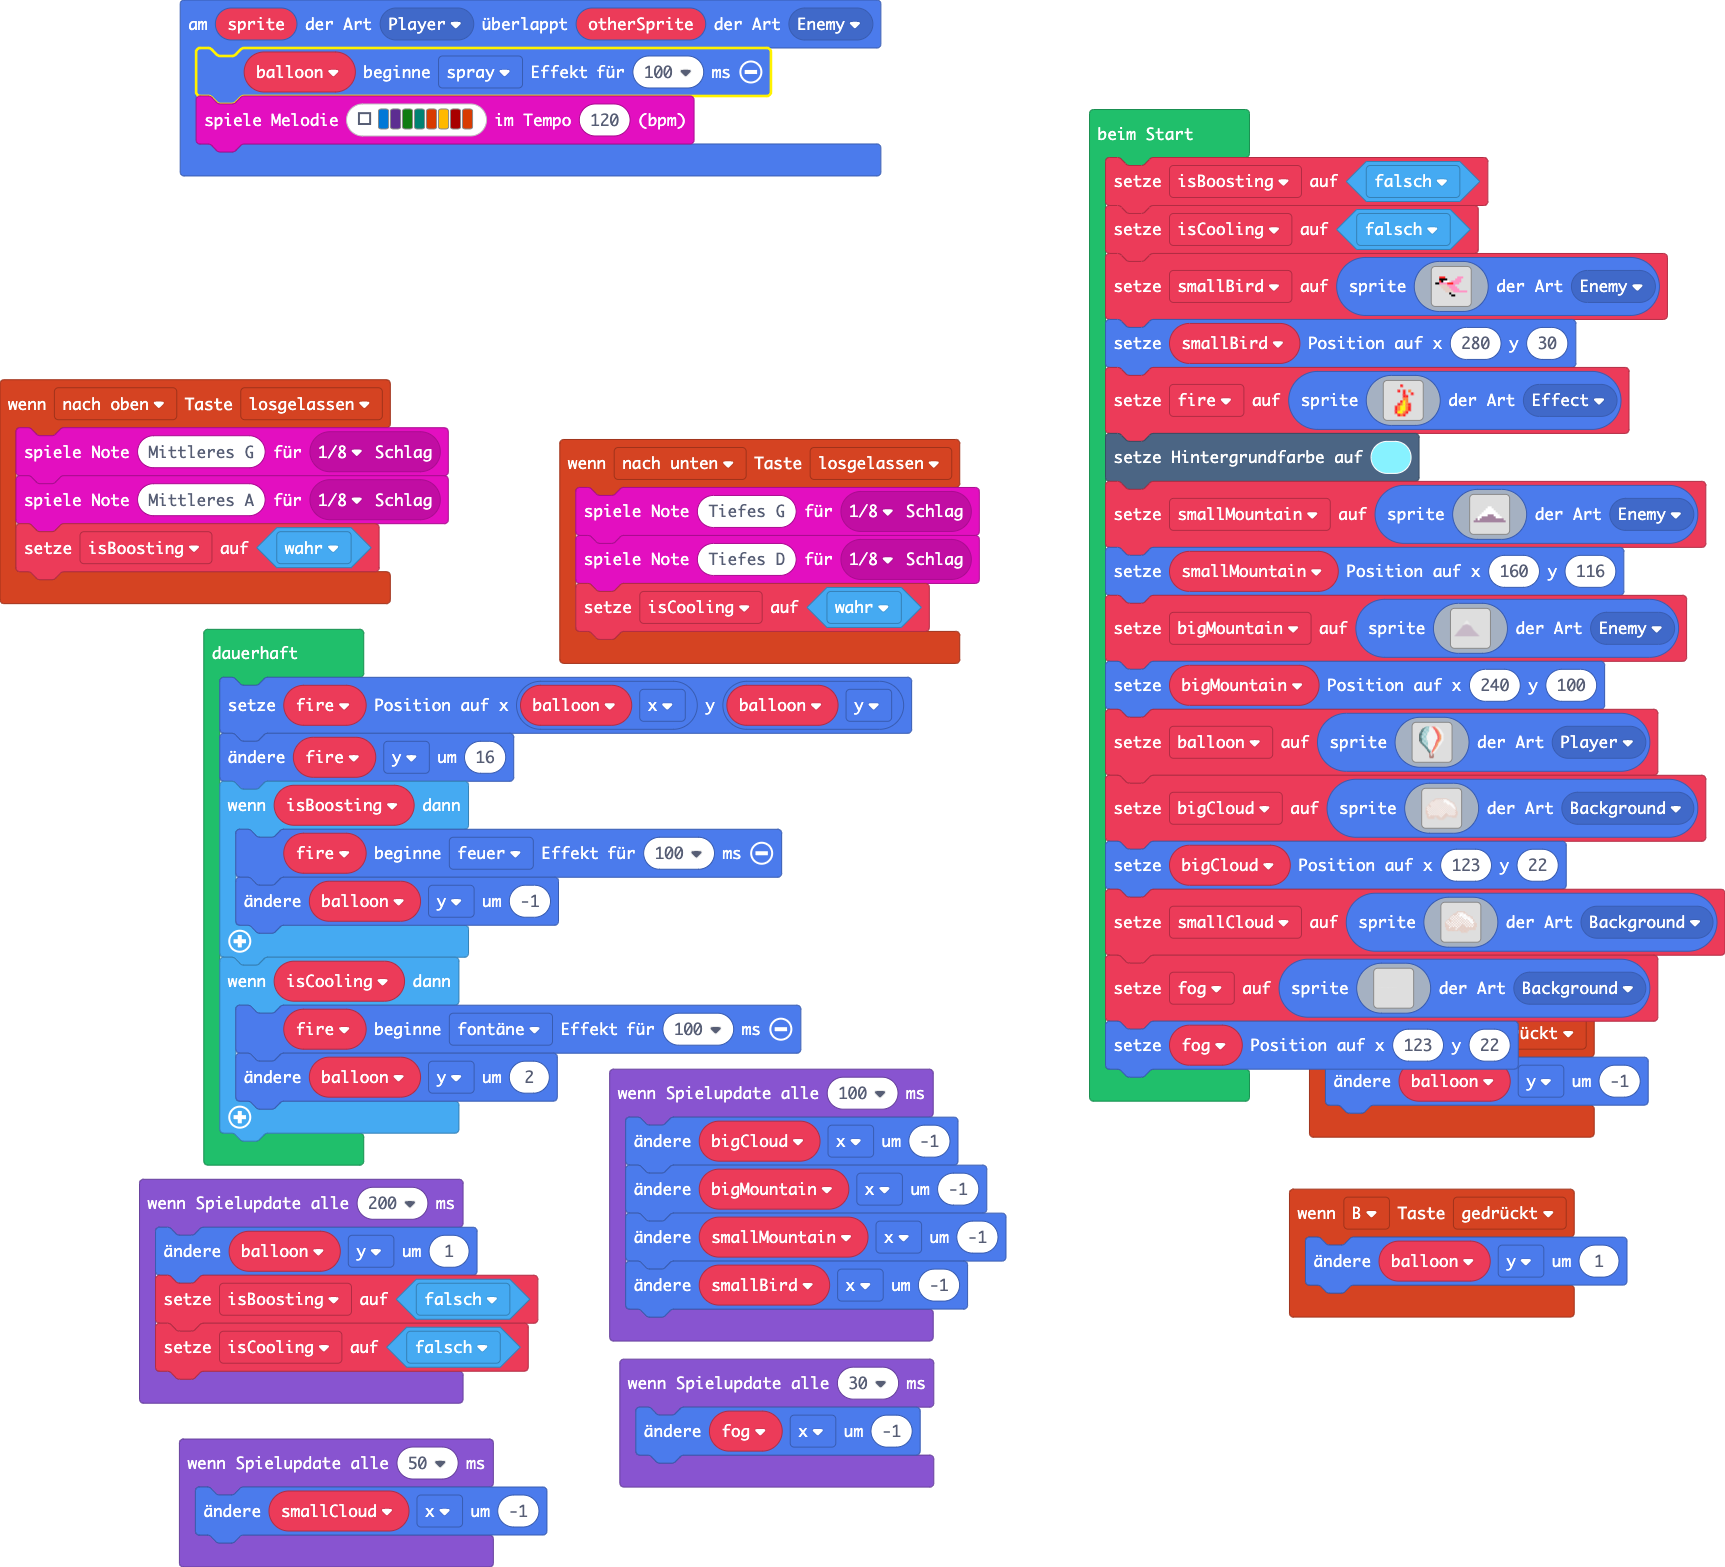
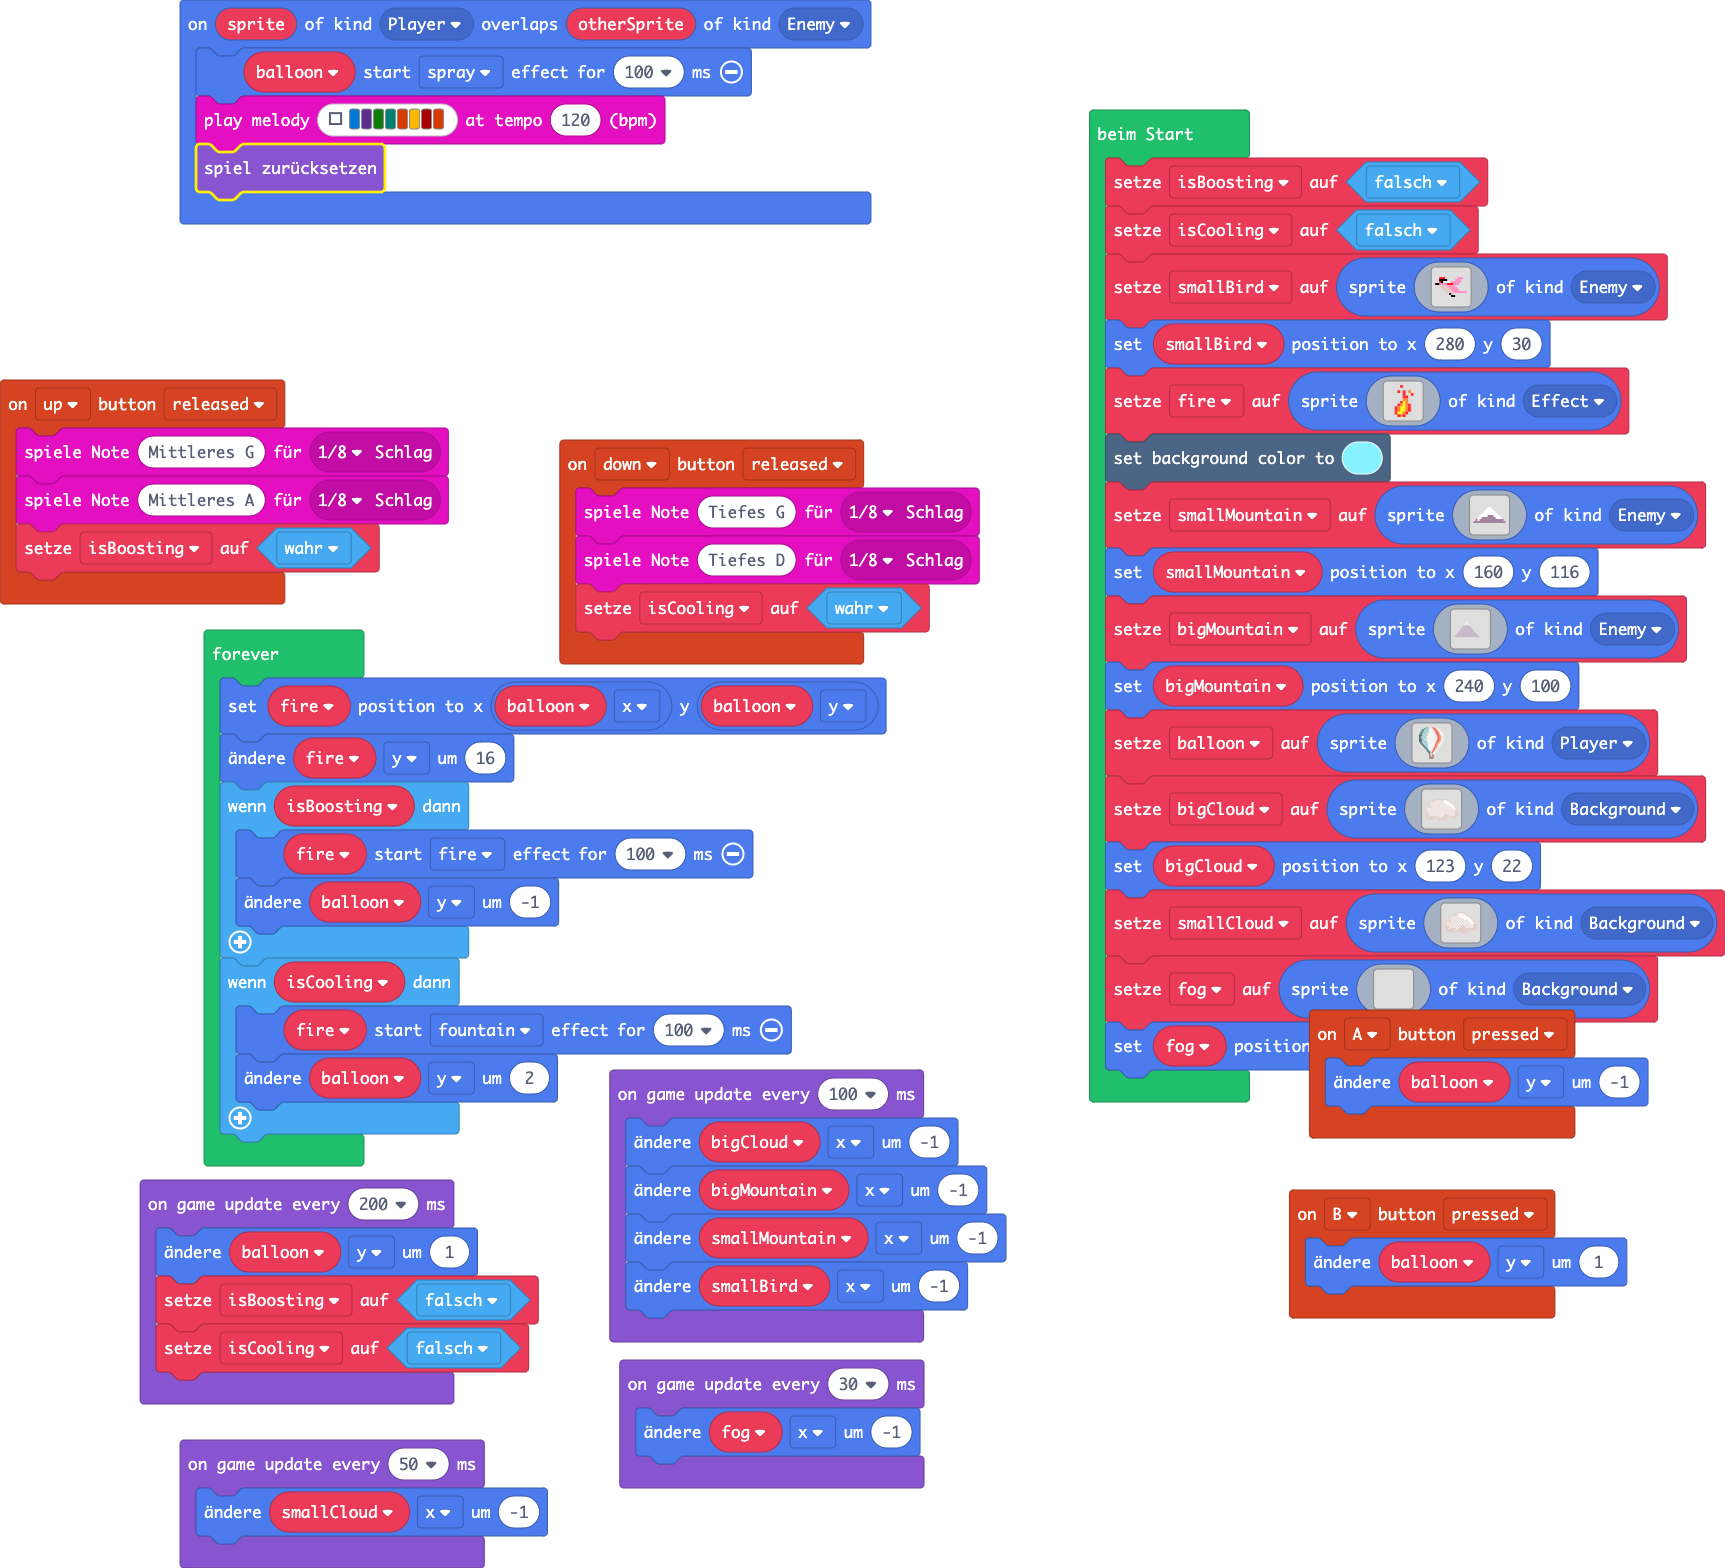
Reset game after game over

diff --git a/main.ts b/main.ts
@@ -42,6 +42,7 @@ controller.A.onEvent(ControllerButtonEvent.Pressed, function () {
 sprites.onOverlap(SpriteKind.Player, SpriteKind.Enemy, function (sprite, otherSprite) {
     balloon.startEffect(effects.spray, 100)
     music.playMelody("E D G F B A C5 B ", 120)
+    game.reset()
 })
 let balloon: Sprite = null
 let isCooling = false
